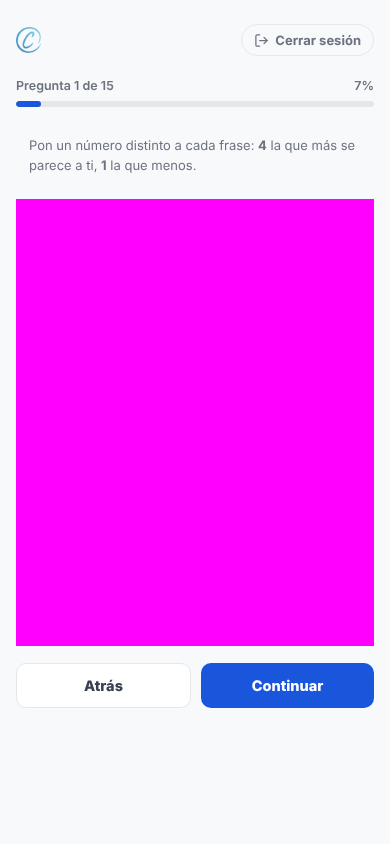
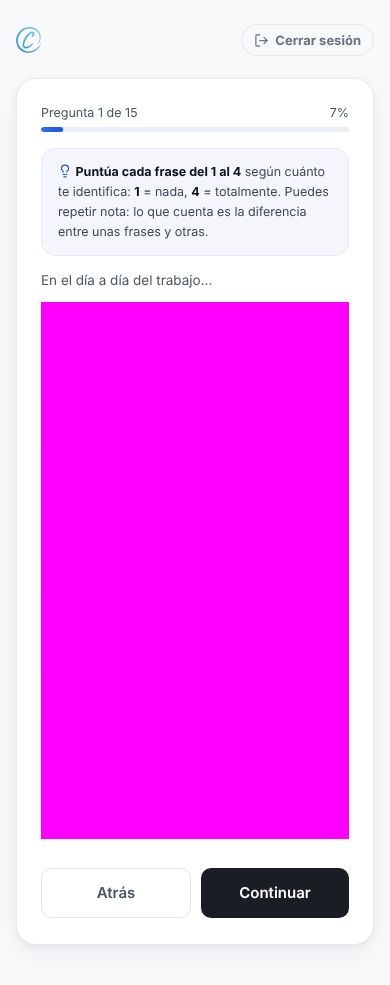
Test DISC: el mismo diseño en los dos lados y ninguna frase se sale del recuadro
- El test del profesional tiene ahora el diseño del de la clínica:
  tarjeta centrada de 488 px, instrucciones con la bombilla, «En el día a
  día del trabajo...», frase a la izquierda y «MENOS 1 2 3 4 MÁS» a la
  derecha, y los mismos botones. En el móvil, como en la clínica: la
  frase arriba y los números grandes debajo.
- Instrucciones: el del profesional decía «Pon un número distinto a cada
  frase», pero se puede repetir número; ahora dice lo mismo que la
  clínica: «Puedes repetir nota…».
- En los dos, la frase se parte si no cabe (también palabras largas como
  «pacientes/compañeros») y, si la escala no cabe al lado, baja debajo en
  vez de salirse (pasaba con la pantalla ampliada).
Prueba nueva (67-test-disc-igual): las 15 preguntas de los dos tests, en
ordenador y en móvil, también con la tarjeta estrecha. Fallaba antes.
Capturas de la pregunta del test del profesional actualizadas.

Claude-Session: https://claude.ai/code/session_01L5qSpH5ECCjMh1xfSpjWDJ

diff --git a/pruebas/e2e/67-test-disc-igual.spec.js b/pruebas/e2e/67-test-disc-igual.spec.js
@@ -1,0 +1,61 @@
+// El test DISC se ve igual en la clínica y en el profesional (el modelo es el de la
+// clínica) y ninguna frase ni número se sale de su recuadro: en ordenador, en móvil y
+// con la tarjeta estrecha (como con la pantalla ampliada al 125-150 %).
+const { test, expect, nuevaVentana, vaciarEmulador } = require('../apoyo/entorno');
+const A = require('../apoyo/acciones');
+
+// Lo que sobresale de cada frase (de su recuadro), en píxeles
+const sobresale = (page, sel) => page.evaluate((sel) => {
+  const out = [];
+  document.querySelectorAll(sel).forEach((op) => {
+    const r = op.getBoundingClientRect();
+    op.querySelectorAll('*').forEach((x) => { const q = x.getBoundingClientRect(); if (q.width && (q.right > r.right + 1 || q.left < r.left - 1)) out.push((op.innerText.split('\n')[0] || '').slice(0, 40)); });
+  });
+  return [...new Set(out)];
+}, sel);
+
+async function revisar(page, opciones, tarjeta, siguiente, notas) {
+  for (let q = 0; q < 15; q++) {
+    expect(await sobresale(page, opciones), `pregunta ${q + 1}`).toEqual([]);
+    // con la tarjeta estrecha, como con la pantalla ampliada
+    await page.evaluate((t) => { document.querySelector(t).style.maxWidth = '330px'; }, tarjeta);
+    expect(await sobresale(page, opciones), `pregunta ${q + 1}, tarjeta estrecha`).toEqual([]);
+    await page.evaluate((t) => { document.querySelector(t).style.maxWidth = ''; }, tarjeta);
+    await notas();
+    await page.locator(siguiente).click();
+  }
+}
+
+test('Test DISC: igual en los dos lados y nada se sale del recuadro', async ({ browser }, testInfo) => {
+  await vaciarEmulador();
+  const s = testInfo.project.name;
+  // Clínica
+  const v = await nuevaVentana(browser, testInfo), c = v.page;
+  await A.registrarClinica(c, `disc-c-${s}@prueba.es`);
+  await A.configurarClinica(c, { alPaso2: async () => { throw new Error('PARAR'); } }).catch((e) => { if (!/PARAR/.test(e.message)) throw e; });
+  await c.getByText('Entendido — empezar el test').click();
+  await revisar(c, '#options-container-onboarding .option', '#screen-test-onboarding', '#btn-next-onboarding', async () => {
+    for (let k = 0; k < 4; k++) await c.locator(`#options-container-onboarding .option[data-k="${k}"] .tag-btn`).nth(1).click();
+  });
+  // Profesional
+  const w = await nuevaVentana(browser, testInfo), p = w.page;
+  await A.registrarProfesional(p, `disc-p-${s}@prueba.es`);
+  await A.altaProfesional(p);
+  await p.check('#t-consent'); await p.getByRole('button', { name: 'Empezar el test' }).click();
+  // Las mismas instrucciones que la clínica (se puede repetir nota)
+  await expect(p.locator('#t-preg .q-help')).toContainText('Puedes repetir nota: lo que cuenta es la diferencia entre unas frases y otras.');
+  await expect(p.locator('#t-preg')).not.toContainText('número distinto');
+  // El mismo diseño: tarjeta del mismo ancho y frase y escala en la misma fila (en ordenador)
+  if (s === 'ordenador') {
+    const anchoP = await p.evaluate(() => document.getElementById('t-preg').getBoundingClientRect().width);
+    expect(Math.abs(anchoP - 488)).toBeLessThan(2); // el ancho de la tarjeta de la clínica
+    const misma = await p.evaluate(() => { const o = document.querySelector('#t-ops .opt'), t = o.querySelector('.opt-t').getBoundingClientRect(), n = o.querySelector('.opt-n').getBoundingClientRect(); return n.top < t.bottom; });
+    expect(misma).toBe(true);
+  }
+  await revisar(p, '#t-ops .opt', '#t-preg', '#t-next', async () => {
+    for (let k = 0; k < 4; k++) await p.locator(`#t-ops .opt[data-k="${k}"] button`).nth(1).click();
+  });
+  expect(c.erroresPagina).toEqual([]);
+  expect(p.erroresPagina).toEqual([]);
+  await v.context.close(); await w.context.close();
+});

diff --git a/src/estilos/profesional.css b/src/estilos/profesional.css
@@ -1020,3 +1020,45 @@ body.en-dx .tab.active .ico{background:rgba(255,255,255,.16);}
 .pm-line{flex-wrap:wrap;row-gap:10px;}
 .pm-line > div[style*="flex:1"]{flex:1 1 170px !important;}
 .pm-line > div[style*="flex:1"] b{display:block;overflow:hidden;text-overflow:ellipsis;white-space:nowrap;}
+
+/* ===== TEST DISC: el mismo diseño que el de la clínica (Asish, 15 nov) =====
+   Tarjeta centrada, frase a la izquierda y «MENOS 1 2 3 4 MÁS» a la derecha.
+   Si la frase no cabe, baja de línea; si la escala no cabe al lado, va debajo
+   (nunca se sale del recuadro). En el móvil, una debajo de la otra. */
+/* mientras se ven las preguntas, el contenedor deja sitio para la tarjeta de 488 px, como en la clínica */
+#v-test .wrap-s:not(:has(> #t-preg[style*="none"])){max-width:528px;}
+#t-preg.test-tarjeta{max-width:488px;margin:0 auto;background:#fff;border:1px solid #E9EBF0;border-radius:20px;padding:26px 24px;box-shadow:0 2px 6px rgba(11,18,32,.05),0 8px 24px rgba(11,18,32,.05);}
+#t-preg .prog{font-size:12.5px;font-weight:400;color:#4B5563;margin-bottom:7px;}
+#t-preg .prog-bar{height:5px;background:#EDEFF4;margin-bottom:16px;}
+#t-preg .prog-bar div{background:linear-gradient(90deg,#2F6FED,#1A56DB);box-shadow:0 0 0 1px rgba(26,86,219,.12);}
+#t-preg .q-help{background:#F4F6FB;border:1px solid #E7EBF5;border-radius:14px;padding:13px 16px;margin-bottom:16px;font-size:12.5px;line-height:20px;color:#3D4657;}
+#t-preg .q-help b{color:#0B1220;}
+#t-preg .q-intro{font-size:13px;color:#4B5563;margin-bottom:12px;}
+#t-ops .opt{display:flex;flex-wrap:wrap;align-items:center;justify-content:space-between;gap:12px;border:1px solid #E9EBF0;border-radius:16px;padding:13px 14px;margin-bottom:10px;background:#fff;box-shadow:0 1px 2px rgba(11,18,32,.04);}
+#t-ops .opt-t{flex:1 1 120px;min-width:0;margin:0;font-size:14px;font-weight:500;line-height:1.4;color:#0B1220;overflow-wrap:anywhere;}
+#t-ops .opt-n{flex-shrink:0;margin-left:auto;gap:6px;}
+#t-ops .opt-n small{font-size:9.5px;font-weight:700;letter-spacing:.95px;text-transform:uppercase;color:#6B7280;}
+#t-ops .opt-n small:first-child{margin-right:2px;}
+#t-ops .opt-n small:last-child{margin-left:2px;}
+#t-ops .opt-n button{width:34px;height:34px;border:1px solid #E4E8F1;border-radius:999px;background:#fff;box-shadow:0 1px 2px rgba(11,18,32,.04);font-size:13px;font-weight:800;color:#374151;}
+#t-ops .opt-n button.on{background:linear-gradient(145deg,#2F6FED,#1A56DB);border-color:#1A56DB;color:#fff;transform:scale(1.12);box-shadow:0 2px 8px rgba(26,86,219,.35);}
+#t-preg .acts{display:flex;gap:10px;margin-top:6px;}
+#t-preg .acts .btn{flex:1;padding:13px 18px;border-radius:10px;font-size:15px;font-weight:600;}
+#t-preg .acts .btn-s{background:transparent;border:1px solid #E5E7EB;color:#4B5563;}
+#t-preg .acts .btn-p{background:#1A1D23;color:#fff;}
+@media (max-width:600px){
+  #t-preg.test-tarjeta{padding:26px 24px;}
+  #t-preg .q-intro{font-size:13.5px;margin-bottom:14px;}
+  #t-ops .opt{display:block;padding:14px 13px;border-radius:18px;}
+  #t-ops .opt-t{font-size:15px;line-height:1.45;margin-bottom:12px;}
+  #t-ops .opt-n{display:grid;grid-template-columns:auto repeat(4,1fr) auto;align-items:center;gap:6px;width:100%;margin:0;}
+  #t-ops .opt-n small{margin:0;white-space:nowrap;}
+  #t-ops .opt-n button{width:100%;height:52px;font-size:17px;}
+  #t-ops .opt-n button.on{transform:none;}
+  #t-preg .acts{margin-top:18px;}
+  #t-preg .acts .btn{min-height:50px;}
+}
+@media (max-width:360px){
+  #t-ops .opt-n small{display:none;}
+  #t-ops .opt-n{grid-template-columns:repeat(4,1fr);}
+}

diff --git a/candidato.html b/candidato.html
@@ -296,10 +296,11 @@
       <button class="btn btn-g btn-block" id="t-luego" style="margin-top:6px;" onclick="testLuego()">Lo haré más tarde</button>
     </div>
 
-    <div id="t-preg" style="display:none;">
+    <div id="t-preg" class="test-tarjeta" style="display:none;">
       <div class="prog"><span id="t-lbl">Pregunta 1 de 15</span><span id="t-pct">7%</span></div>
       <div class="prog-bar"><div id="t-bar" style="width:7%"></div></div>
-      <div class="q-help">Pon un número distinto a cada frase: <b>4</b> la que más se parece a ti, <b>1</b> la que menos.</div>
+      <div class="q-help"><svg xmlns="http://www.w3.org/2000/svg" width="14" height="14" viewBox="0 0 24 24" fill="none" stroke="#1A56DB" stroke-width="2" stroke-linecap="round" stroke-linejoin="round" style="display:inline-block;vertical-align:-0.15em;flex-shrink:0;" aria-hidden="true"><path d="M15 14c.2-1 .7-1.7 1.5-2.5 1-.9 1.5-2.2 1.5-3.5A6 6 0 0 0 6 8c0 1 .2 2.2 1.5 3.5.7.7 1.3 1.5 1.5 2.5"></path><path d="M9 18h6"></path><path d="M10 22h4"></path></svg> <b>Puntúa cada frase del 1 al 4</b> según cuánto te identifica: <b>1</b> = nada, <b>4</b> = totalmente. Puedes repetir nota: lo que cuenta es la diferencia entre unas frases y otras.</div>
+      <div class="q-intro">En el día a día del trabajo...</div>
       <div id="t-ops"></div>
       <div class="err" id="t-err"></div>
       <div class="acts"><button class="btn btn-s" onclick="testAtras()">Atrás</button><button class="btn btn-p" id="t-next" onclick="testSeguir()">Continuar</button></div>

diff --git a/src/estilos/clinica-final.css b/src/estilos/clinica-final.css
@@ -615,3 +615,10 @@ h2, h3{ letter-spacing:-0.02em; font-weight:700; }
 .grupo-prof-h b{font-size:12px;font-weight:800;color:#1E40AF;background:#EEF3FE;border-radius:99px;padding:2px 9px;}
 .prof-sep{font-size:11px;font-weight:800;letter-spacing:.6px;text-transform:uppercase;color:#6B7280;margin:12px 2px 6px;}
 #portal-talento .prof-chips{margin:10px 0 0;}
+
+/* ===== TEST DISC: ninguna frase se sale del recuadro (Asish, 15 nov) =====
+   La frase puede partirse (también palabras largas como «pacientes/compañeros»)
+   y, si la escala no cabe a su lado, baja debajo en vez de salirse. */
+#screen-onboarding .option, #screen-testdisc .option{flex-wrap:wrap;}
+#screen-onboarding .option-text, #screen-testdisc .option-text{flex:1 1 120px;min-width:0;overflow-wrap:anywhere;}
+#screen-onboarding .option-controls, #screen-testdisc .option-controls{flex-shrink:0;margin-left:auto;max-width:100%;}
